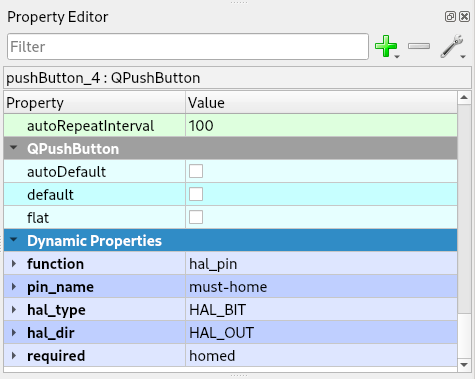
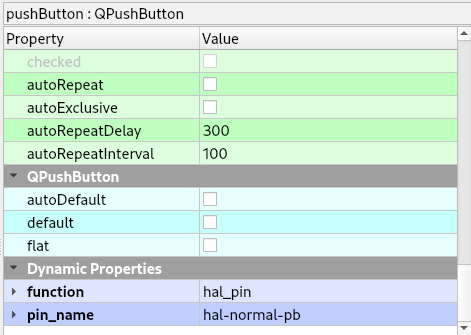
update docs for hal direction out and i/o enables objects

diff --git a/docs_flex/source/hal.rst b/docs_flex/source/hal.rst
@@ -24,7 +24,28 @@ The property `pin_name` defines the HAL pin name that is prefixed with
    Hal types and directions are case sensitive and must be all caps. The
    function value must be lower case.
 
-.. note:: Hal pin names can containe a-z, A-Z, 0-9, underscore _, or dash -.
+.. note:: Hal pin names can containe a-z, A-Z, 0-9, underscore _, or dash -. Use
+   a dash to not conflict with program variables of the same name which use an
+   underscore.
+
+Options
+-------
+
+The default behaviour for HAL objects that are a HAL_OUT or HAL_IO is to be
+enabled when the E Stop is released. To change this behaviour add a Dynamic
+Property to control when the HAL object is enabled. The `state_on` property will
+enable the control when the power is on. The `all_homed` property will enable
+the control when all joints are homed. They can be combined to make a HAL object
+only enabled when power is on and all joints are homed.
+
+.. csv-table:: HAL Options
+   :width: 100%
+   :align: center
+
+	**Property Type**, **Property Name**, **Pin Value**
+	Bool, state_on, True
+	Bool, all_homed, True
+
 
 HAL Button
 ----------
@@ -40,21 +61,9 @@ adding two string type Dynamic Properties. A pin_name of my-button would be
 	**Property Type**, **Property Name**, **Pin Value**
 	String, function, hal_pin
 	String, pin_name, any unique name
-
-Optionally the button can be disabled when the power is off by adding a
-Dynamic Property named `state_off` and setting the value to `disabled`.
-
-Optionally if the HAL button requires all joints to be homed before being
-enabled, you can specify that by adding a Dynamic Property named `required` and
-set the value to `homed`.
-
-.. csv-table:: HAL Button Options
-   :width: 100%
-   :align: center
-
-	**Property Type**, **Property Name**, **Pin Value**
-	String, state_off, disabled
-	String, required, homed
+	Optional
+	Bool, state_on, True
+	Bool, all_homed, True
 
 .. image:: /images/hal-09.png
    :align: center
@@ -80,7 +89,9 @@ colors are Red when Off and Green when On. The default shape is round.
 	**Property Type**, **Property Name**, **Pin Value**
 	String, function, hal_led_button
 	String, pin_name, any unique name
-	, Optional
+	Optional
+	Bool, state_on, True
+	Bool, all_homed, True
 	String, led_shape, square
 
 HAL Spinbox
@@ -100,6 +111,9 @@ value of the spinbox.
 	String, function, hal_pin
 	String, pin_name, any unique name
 	String, hal_type, HAL_S32 or HAL_U32
+	Optional
+	Bool, state_on, True
+	Bool, all_homed, True
 
 HAL Double Spinbox
 ------------------
@@ -117,6 +131,9 @@ value of the spinbox.
 	**Property Type**, **Property Name**, **Pin Value**
 	String, function, hal_pin
 	String, pin_name, any unique name
+	Optional
+	Bool, state_on, True
+	Bool, all_homed, True
 
 Slider
 ------
@@ -136,6 +153,9 @@ See :doc:`property` for step by step instructions to add a Dynamic Property
 	String, function, hal_pin
 	String, pin_name, any unique name
 	String, hal_type, HAL_S32 or HAL_U32
+	Optional
+	Bool, state_on, True
+	Bool, all_homed, True
 
 HAL I/O
 -------
@@ -156,7 +176,15 @@ QDoubleSpinBox or a QSlider can be a HAL I/O object.
 	**Property Type**, **Property Name**, **Pin Value**
 	String, function, hal_io
 	String, pin_name, any unique name
-	String, hal_type, HAL_S32 or HAL_U32 for a QSpinBox or QSlider
+	For a QSpinBox or QSlider
+	String, hal_type, HAL_S32 or HAL_U32
+	For a QDoubleSpinBox
+	String, hal_type, HAL_FLOAT
+	Optional
+	Bool, state_on, True
+	Bool, all_homed, True
+
+.. NOTE:: The hal_type is required for QSpinBox, QSlider or QDoubleSpinBox
 
 Label
 -----
@@ -173,7 +201,7 @@ post gui HAL file. The pin_name used will create a HAL pin prefixed with
 	String, function, hal_pin
 	String, pin_name, any unique name
 	String, hal_type, HAL_BIT or HAL_FLOAT or HAL_S32 or HAL_U32
-	, Optional
+	Optional
 	String, precision, Number of decimal digits for HAL_FLOAT type
 	String, integer_digits, Number of left pad zeros for HAL_S32 or HAL_U32
 
@@ -205,7 +233,7 @@ create a HAL pin prefixed with `flexhal.` A pin_name of my-reader would be
 	**Property Type**, **Property Name**, **Pin Value**
 	String, function, hal_avr_f
 	String, pin_name, any unique name
-	, Optional
+	Optional
 	Int, samples, The number of samples to use default is 10
 	Int, rounding, number of digits to the left of the decimal to round
 	Int, precision, Number of decimal digits
@@ -271,7 +299,7 @@ connected to a signal.
 	Bool, hal_led, True
 	String, function, hal_led
 	String, pin_name, any unique name
-	, Optional
+	Optional
 	Color, on_color, color of your choice
 	Color, off_color, color of your choice
 	Int, edge_margin, space between circle and edge of the label
@@ -297,7 +325,7 @@ default shape is round.
 	**Property Type**, **Property Name**, **Pin Value**
 	String, function, hal_led_label
 	String, pin_name, any unique name
-	, Optional
+	Optional
 	Color, led_on_color, color of your choice
 	Color, led_off_color, color of your choice
 	Int, led_diameter, diameter of led
@@ -320,7 +348,7 @@ the post gui HAL file. The pin_name used will create a HAL pin prefixed with
 	String, function, hal_pin
 	String, pin_name, any unique name
 	String, hal_type, HAL_FLOAT or HAL_S32 or HAL_U32
-	, Optional
+	Optional
 	String, integer_digits, Number of left pad zeros for HAL_S32 or HAL_U32
 
 .. note:: A HAL_FLOAT QLCDNumber can have a string Dynamic Property called
@@ -378,16 +406,6 @@ unique name
 .. image:: /images/hal-04.png
    :align: center
 
-Add another Dynamic Property named `hal_type` and set the value to HAL_BIT
-
-.. image:: /images/hal-05.png
-   :align: center
-
-Add another Dynamic Property named `hal_dir` and set the value to HAL_OUT
-
-.. image:: /images/hal-06.png
-   :align: center
-
 If you added Show HAL to your menu, you can open up the `Halshow` program and
 view the pin names
 
@@ -404,6 +422,13 @@ Now you can connect the Flex HAL pin in the postgui.hal file like normal
 .. code-block:: text
 
 	net some-signal-name flexhal.hal-test-01 => some-other-pin-in
+
+You can also preset a numeric HAL value by using `setp` in this example the HAL
+object is a QSpinBox which uses integer values.
+
+.. code-block:: text
+
+	setp flexhal.launch-velocity 10
 
 After installing Flex GUI, from the CNC menu, you can copy the Flex GUI examples
 and look at the hal-btn example.